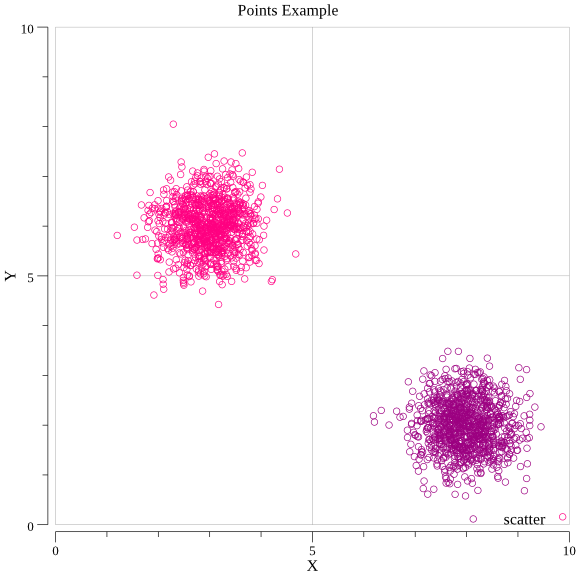
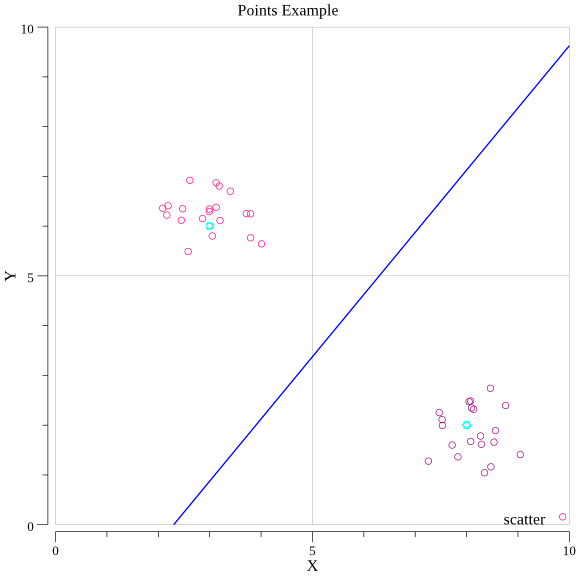
プロトタイプの垂直二等分線

diff --git a/main/main.go b/main/main.go
@@ -12,21 +12,34 @@ import (
 
 func main() {
 
-	//クラス1のプロトタイプ
-	x1, y1 := 3.0, 6.0
-
-	//クラス2のプロトタイプ
-	x2, y2 := 8.0, 2.0
-
-	//各クラスのサンプル
-	n := 1000
-	scatterData1 := randomPoints(n, x1, y1)
-	scatterData2 := randomPoints(n, x2, y2)
-
+	// 図の生成
 	p, err := plot.New()
 	if err != nil {
 		panic(err)
 	}
+
+	prototype := make(plotter.XYs, 2)
+
+	//クラス1のプロトタイプ
+	x1, y1 := 3.0, 6.0
+	prototype[0].X = x1
+	prototype[0].Y = y1
+
+	//クラス2のプロトタイプ
+	x2, y2 := 8.0, 2.0
+	prototype[1].X = x2
+	prototype[1].Y = y2
+
+	//各クラスのサンプル
+	n := 20
+	scatterData1 := randomPoints(n, x1, y1)
+	scatterData2 := randomPoints(n, x2, y2)
+
+	//　垂直二等分線
+	perpendicularBisector := plotter.NewFunction(func(x float64) float64 {
+		return (0.5*(x2*x2-x1*x1+y2*y2-y1*y1) - (x2-x1)*x) / (y2 - y1)
+	})
+	perpendicularBisector.Color = color.RGBA{B: 255, A: 255}
 
 	//label
 	p.Title.Text = "Points Example"
@@ -47,10 +60,18 @@ func main() {
 		panic(err)
 	}
 
+	r, err := plotter.NewScatter(prototype)
+	if err != nil {
+		panic(err)
+	}
+
 	s.GlyphStyle.Color = color.RGBA{R: 255, B: 128, A: 255}
 	y.GlyphStyle.Color = color.RGBA{R: 155, B: 128, A: 255}
+	r.GlyphStyle.Color = color.RGBA{R: 128, B: 0, A: 0}
 	p.Add(s)
 	p.Add(y)
+	p.Add(r)
+	p.Add(quad)
 	p.Legend.Add("scatter", s)
 
 	// Axis ranges that seem to include all bubbles.
@@ -67,13 +88,13 @@ func main() {
 
 //ガウス分布
 func random(axis float64) float64 {
-	//分散
+	//分散ｃｄ
 	dispersion := 0.5
 	rand.Seed(time.Now().UnixNano())
 	return rand.NormFloat64()*dispersion + axis
 }
 
-// randomPoints returns some random x, y points.
+// データサンプルの集合
 func randomPoints(n int, x, y float64) plotter.XYs {
 	pts := make(plotter.XYs, n)
 	for i := range pts {
